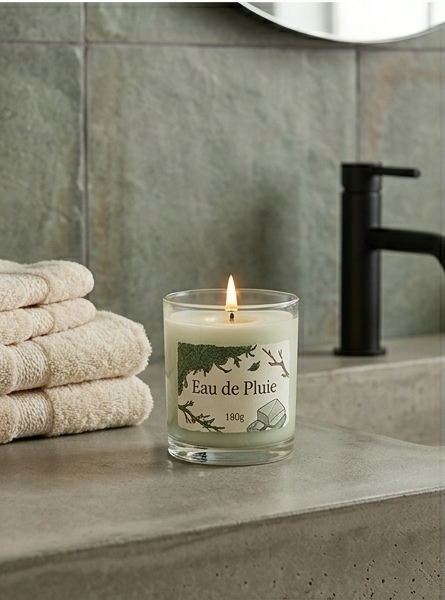
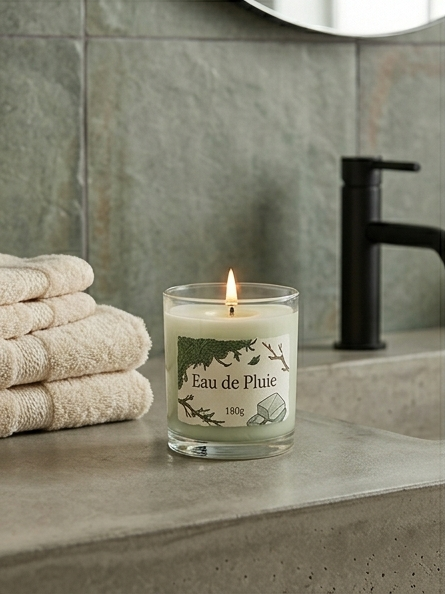
atualizado css e js pagina sobre

diff --git a/lumiere-atelie/estilos/style.css b/lumiere-atelie/estilos/style.css
@@ -57,6 +57,7 @@ header.scrolled {
     background: var(--cor-offwhite);
 }
 
+/* Barra de desconto */
 .desconto {
     background-color: var(--cor-cacau);
     color: var(--cor-offwhite);
@@ -67,6 +68,7 @@ header.scrolled {
     padding: 8px;
 }
 
+/* Barra de navegação */
 .menu {
     display: flex;
     align-items: center;
@@ -322,6 +324,7 @@ div .preco-destaques {
     justify-content: center;                   
 }
 
+/* Último bloco — frase de fechamento e botão */
 .storytelling > div:last-child p {
     font-family: var(--fonte-display); 
     font-size: 36px;
@@ -331,6 +334,7 @@ div .preco-destaques {
     letter-spacing: 1px;
 }
 
+/* Botão montar meu kit */
 .storytelling > div:last-child a {
     display: inline-block;
     background-color: var(--cor-cacau);
@@ -351,6 +355,7 @@ div .preco-destaques {
 /* "fim" página home*/
 
 /*página loja*/
+/* Intro da coleção */
 .colecao {
     display: flex;
     flex-direction: column;
@@ -375,6 +380,7 @@ div .preco-destaques {
     color: var(--cor-ambar);
 }
 
+/* Seções de categoria — velas, sabonetes, kits */
 .velas,
 .sabonetes,
 .kits {
@@ -397,6 +403,7 @@ div .preco-destaques {
     border-bottom: 1px solid var(--cor-bege);
 }
 
+/* Card horizontal — imagem à esquerda, info à direita */
 .produto-card {
     display: grid;
     grid-template-columns: 300px 1fr;
@@ -404,6 +411,7 @@ div .preco-destaques {
     align-items: center;
 }
 
+/* Container da imagem com os dots */
 .produto-imagens {
     position: relative;
 }
@@ -415,6 +423,7 @@ div .preco-destaques {
     display: block;
 }
 
+/* Dots do carrossel */
 .dots {
     position: absolute;
     bottom: 12px;
@@ -437,6 +446,7 @@ div .preco-destaques {
     background-color: #fff;
 }
 
+/* Informações do produto */
 .produto-info {
     display: flex;
     flex-direction: column;
@@ -480,6 +490,7 @@ div .preco-destaques {
     display: block;
 }
 
+/* Nota de reposição */
 .nota-reposicao {
     background-color: var(--cor-bege);
     text-align: center;
@@ -489,6 +500,111 @@ div .preco-destaques {
     letter-spacing: 0.5px;
     color: var(--cor-cacau);
 }
+/*"fim" página loja*/
+
+/*página sobre*/
+/* Seção principal sobre */
+.sobre {
+    padding: 150px 48px 100px;
+    max-width: 800px;
+    margin: 0 auto;
+    display: flex;
+    flex-direction: column;
+    gap: 0;
+}
+
+.sobre h2 {
+    font-family: var(--fonte-display);
+    font-size: 52px;
+    font-weight: 300;
+    letter-spacing: 3px;
+    margin-bottom: 48px;
+}
+
+.sobre div {
+    padding: 32px 0;
+    border-top: 1px solid var(--cor-bege);
+}
+
+.sobre div p {
+    font-size: 17px;
+    font-weight: 300;
+    line-height: 1.9;
+    color: var(--cor-ambar);
+}
+
+/* Bloco do meio — estilo diferente */
+#bloco2 {
+    background-color: var(--cor-creme);
+    padding: 32px 40px;
+    border-left: 2px solid var(--cor-terracota);
+}
+
+/* Seção do processo */
+.processo {
+    background-color: var(--cor-bege);
+    padding: 100px 48px;
+    display: flex;
+    flex-direction: column;
+    align-items: center;
+    gap: 48px;
+}
+
+.processo h2 {
+    font-family: var(--fonte-display);
+    font-size: 40px;
+    font-weight: 300;
+    letter-spacing: 2px;
+    text-align: center;
+}
+
+/* Grid das 4 etapas */
+.processo > div {
+    display: grid;
+    grid-template-columns: 200px 1fr;
+    gap: 48px;
+    align-items: start;
+    width: 100%;
+    min-width: 800px;
+    padding: 25px 0;
+    border-top: 1px solid var(--cor-ambar);
+}
+
+.processo > div h3 {
+    font-family: var(--fonte-display);
+    font-size: 22px;
+    font-weight: 400;
+    letter-spacing: 1px;
+    color: var(--cor-cacau);
+}
+
+.processo > div p {
+    font-size: 15px;
+    font-weight: 300;
+    line-height: 1.8;
+    color: var(--cor-cacau);
+    opacity: 0.8;
+}
+
+/* Frase de fechamento*/
+.fechamento {
+    padding: 100px 48px;
+    text-align: center;
+    display: flex;
+    justify-content: center;
+}
+
+.fechamento p {
+    font-family: var(--fonte-display);
+    font-size: 36px;
+    font-weight: 300;
+    font-style: italic;
+    letter-spacing: 1px;
+    color: var(--cor-cacau);
+    max-width: 600px;
+    line-height: 1.5;
+}
+/* "fim" página sobre */
 
 footer {
     background-color: var(--cor-cacau);

diff --git a/lumiere-atelie/script.js b/lumiere-atelie/script.js
@@ -7,3 +7,29 @@ window.addEventListener('scroll', () => {
     header.classList.remove('scrolled');
   }
 });
+
+document.querySelectorAll('.produto-card').forEach(card => {
+  const imgs = card.querySelectorAll('.produto-imagens img');
+  const dots = card.querySelectorAll('.dot');
+
+  if (imgs.length <=1) return;
+
+  let atual = 0;
+
+  imgs.forEach((img, i) => {
+    img.style.display = i === 0 ? 'block' : 'none';
+  });
+
+  dots.forEach((dot, i) => {
+    dot.addEventListener('click', () => {
+
+      imgs[atual].style.display = 'none';
+      dots[atual].classList.remove('ativa');
+
+      atual = i;
+
+      imgs[atual].style.display = 'block';
+      dots[atual].classList.add('ativa');
+    })
+  })
+})

diff --git a/lumiere-atelie/loja.html b/lumiere-atelie/loja.html
@@ -44,6 +44,8 @@
             <div class="produto-card">
                <div class="produto-imagens">
                     <img src="imagens/nuit-de-figuier.png" alt="Vela Nuit de Figuier" title="Vela Nuit de Figuier">
+                    <img src="imagens/nuit-de-figuier-em-uso.png" alt="Vela Nuit de Figuier em uso">
+                    <img src="imagens/nuit-de-figuier-ingredientes.png" alt="Ingredientes Nuit de Figuier">
                     <div class="dots">
                         <span class="dot ativa"></span>
                         <span class="dot"></span>
@@ -61,6 +63,8 @@
             <div class="produto-card">
                 <div class="produto-imagens">
                     <img src="imagens/eau-de-pluie.png" alt="Vela Eau de Pluie" title="Vela Eau de Pluie">
+                    <img src="imagens/eau-de-pluie-em-uso.png" alt="Vela Eau de Pluie em uso">
+                    <img src="imagens/eau-de-pluie-ingredientes.png" alt="Ingredientes Eau de Pluie">
                     <div class="dots">
                         <span class="dot ativa"></span>
                         <span class="dot"></span>
@@ -78,6 +82,8 @@
             <div class="produto-card">
                 <div class="produto-imagens">
                     <img src="imagens/tabac-e-miel.png" alt="Vela Tabac & Miel" title="Vela Tabac & Miel">
+                    <img src="imagens/tabac-e-miel-em-uso.png" alt="Vela Tabac & Miel em uso">
+                    <img src="imagens/tabac-e-miel-ingredientes.png" alt="Ingredientes Tabac & Miel">
                     <div class="dots">
                         <span class="dot ativa"></span>
                         <span class="dot"></span>
@@ -95,6 +101,8 @@
             <div class="produto-card">
                 <div class="produto-imagens">
                     <img src="imagens/fleur-sauvage.png" alt="Vela Fleur Sauvage" title="Vela Fleur Sauvage">
+                    <img src="imagens/fleur-sauvage-em-uso.png" alt="Vela Fleur Sauvage em uso">
+                    <img src="imagens/fleur-sauvage-ingredientes.png" alt="Ingredientes Fleur Sauvage">
                     <div class="dots">
                         <span class="dot ativa"></span>
                         <span class="dot"></span>
@@ -115,6 +123,8 @@
             <div class="produto-card">
                 <div class="produto-imagens">
                     <img src="imagens/argila-rosada.png" alt="Sabonete Mousse de Argila Rosada" title="Sabonete Mousse de Argila Rosada">
+                    <img src="imagens/argila-rosada-em-uso.png" alt="Sabonete Mousse de Argila Rosada em uso">
+                    <img src="imagens/argila-rosada-ingredientes.png" alt="Ingredientes Mousse de Argila Rosada">
                     <div class="dots">
                         <span class="dot ativa"></span>
                         <span class="dot"></span>
@@ -132,6 +142,8 @@
             <div class="produto-card">
                 <div class="produto-imagens">
                     <img src="imagens/aveia-e-mel.png" alt="Sabonete Aveia & Mel" title="Sabonete Aveia & Mel">
+                    <img src="imagens/aveia-e-mel-em-uso.png" alt="Sabonete Aveia & Mel em uso">
+                    <img src="imagens/aveia-e-mel-ingredientes.png" alt="Ingredientes Aveia & Mel">
                     <div class="dots">
                         <span class="dot ativa"></span>
                         <span class="dot"></span>
@@ -149,6 +161,8 @@
             <div class="produto-card">
                 <div class="produto-imagens">
                     <img src="imagens/carvao-e-hortela.png" alt="Sabonete Carvão Ativado + Hortelã" title="Sabonete Carvão Ativado + Hortelã">
+                    <img src="imagens/carvao-e-hortela-em-uso.png" alt="Sabonete Carvão e Hortelã em uso">
+                    <img src="imagens/carvao-e-hortela-ingredientes.png" alt="Ingredientes Carvão e Hortelã">
                     <div class="dots">
                         <span class="dot ativa"></span>
                         <span class="dot"></span>
@@ -166,6 +180,8 @@
             <div class="produto-card">
                 <div class="produto-imagens">
                     <img src="imagens/coco-e-ylang.png" alt="Sabonete Leite de Coco e Ylang-ylang" title="Sabonete Leite de Coco e Ylang-ylang">
+                    <img src="imagens/coco-e-ylang-em-uso.png" alt="Sabonete Leite de Coco e Ylang-ylang em uso">
+                    <img src="imagens/coco-e-ylang-ingredientes.png" alt="Ingredientes Leite de Coco e Ylang-ylang">
                     <div class="dots">
                         <span class="dot ativa"></span>
                         <span class="dot"></span>